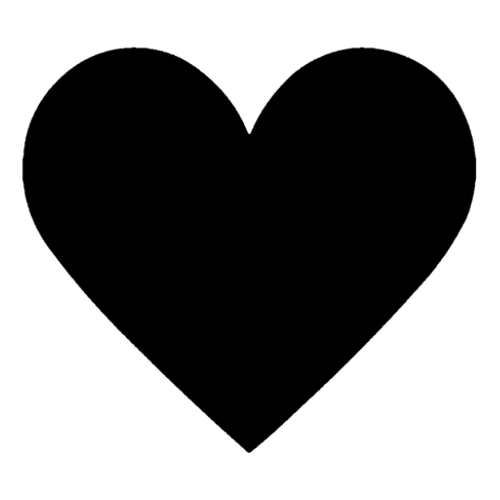
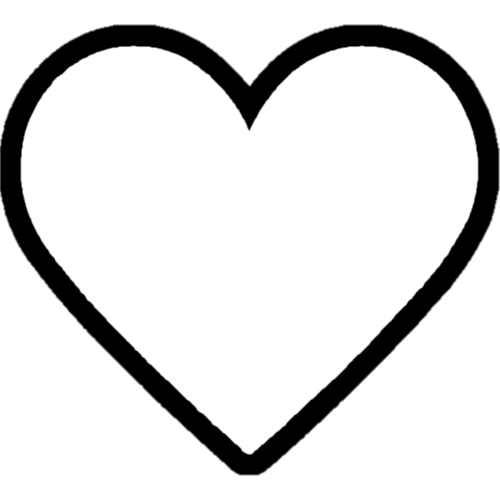
2

diff --git a/docs/index.html b/docs/index.html
@@ -698,47 +698,53 @@ li {
   top: 50%;
   left: 50%;
   transform: translate(-50%, -50%);
-  width: 1.5em;
-  height: 1.5em;
+  width: 2em;
+  height: 2em;
   z-index: 1;
 }
 .postbutton {
   margin: 2px;
-  display: inline-block;
+  display: inline-flex;
+  align-items: center;      /* vertical center */
+  justify-content: center;  /* centers contents if there's extra space */
   position: relative;
   width: auto;
-  height: 1.5em;
-  max-height: 45px; 
+  height: 2em;
+  max-height: 45px;
   border-radius: 5px;
   transition-duration: .5s;
 }
+
 .postbutton:hover {
   background-color: rgb(0, 0, 0, .5);
 }
 .postreact {
-  width: 1.5em;
-  height: 1.5em;
-  max-width: 45px; 
-  max-height: 45px; 
-  background-image: url('fmp3simages/Email.png'); 
-  background-size: 1.5em 1.5em;
-  background-position: center center;
+  width: 2em;
+  height: 2em;
+  max-width: 45px;
+  max-height: 45px;
+  background-image: url('images/Email.png');
+  background-size: 2em 2em;
+  background-position: center;
   background-repeat: no-repeat;
+  flex-shrink: 0;
 }
 .postname {
-  font-size: .5em;
-  margin: 5px;
-  line-height: 2em;
+  display: flex;
+  align-items: center;   /* vertically center text */
+  height: 100%;
+  font-size: .75em;
+  padding: 0 .5em;
 }
 .hearteffect2 {
   position: relative;
   inset: 0;
   pointer-events: none;
   overflow: hidden;
-  width: 1.5em;
-  height: 1.5em;
+  width: 2em;
+  height: 2em;
   z-index: 1;
-  background-image: url('fmp3simages/PWBUY.png');
+  background-image: url('images/PWBUY.png');
   background-size: cover;
   background-position: center center;
   transition-duration: .5s;
@@ -750,7 +756,7 @@ li {
   position: absolute;
   width: 45%;
   height: 45%;
-  background: url('fmp3simages/Heart.png') center/contain no-repeat;
+  background: url('images/Heart.png') center/contain no-repeat;
   opacity: 0;
   animation: floatHeart 1s infinite linear;
   background-color: transparent;
@@ -1948,32 +1954,33 @@ fetch("https://fostchat-rss.fostmp3s.workers.dev/")
             : ""
         }
                 
-    </a>
-    <div class="love">
-    <table>
-    <td class="postbutton" title="Send Message">
-    <a href="mailto:[email redacted]" target="_blank">
-    <div class="postreact"></div>
-    </a>
-    </td>
-    <td class="postbutton" title="Buy Password">
-    <a href="https://fostmp3s.com/pw" target="_blank">
-    <div class="hearteffect2">
-      <span class="heart h1"></span>
-      <span class="heart h2"></span>
-      <span class="heart h3"></span>
-      <span class="heart h4"></span>
-    </div>
-    </a>
-    </td>
-    <td class="postbutton" title="Visit Site">
-    <a href="https://fostmp3s.com" target="_blank">
-    <div class="postname">Written by Foster Lancaster<img style="width: 12px; height: 12px; margin: 0px 0px -3px 4px;" src="fmp3simages/Verified.png"></div>
-    </a>
-    </td>
-    </table>
-    </div>
-    `;
+</a>
+<div class="love">
+<table>
+<td class="postbutton" title="Send Message">
+<a href="mailto:[email redacted]" target="_blank">
+<div class="postreact"></div>
+</a>
+</td>
+<td class="postbutton" title="Buy Password">
+<a href="https://fostmp3s.com/pw" target="_blank">
+<div class="hearteffect2">
+  <span class="heart h1"></span>
+  <span class="heart h2"></span>
+  <span class="heart h3"></span>
+  <span class="heart h4"></span>
+</div>
+</a>
+</td>
+<td class="postbutton" title="Visit Site">
+<a href="https://fostmp3s.com" target="_blank">
+<div class="postname">Human Post<img style="width: 1em; height: 1em; margin-left: .5em;" src="images/Verified.png"></div>
+</a>
+</td>
+</table>
+</div>
+`;
+
                 
     if (feedList) {
       feedList.appendChild(li);